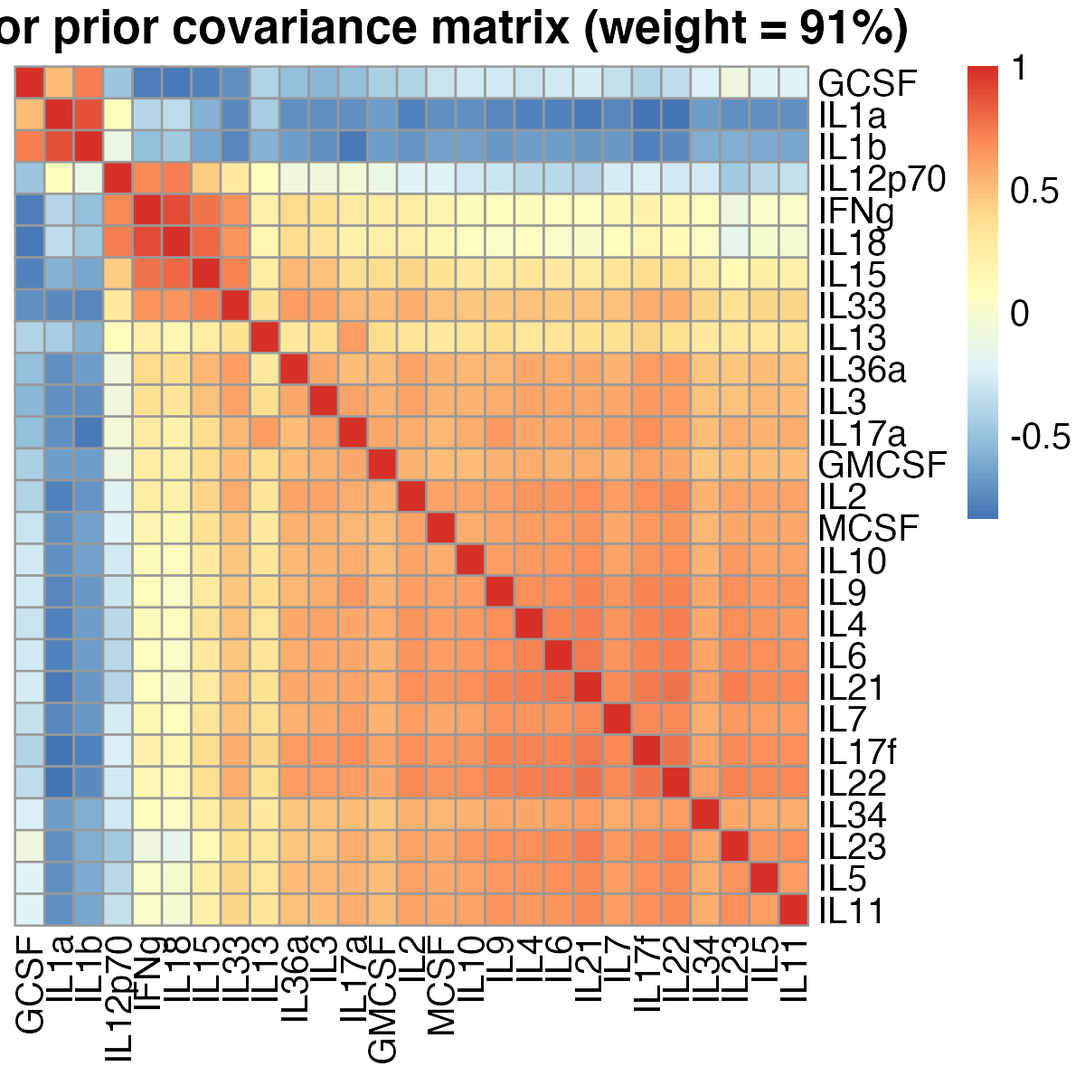
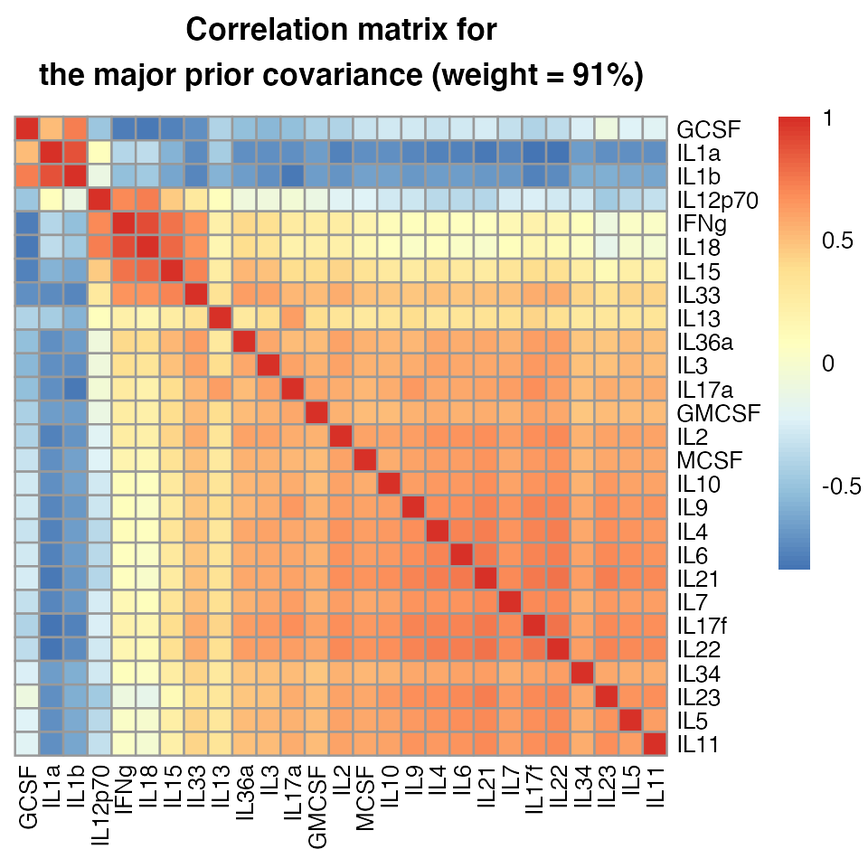
Rebuilt the pkgdown intro vignette page.

diff --git a/docs/articles/intro_poisson_mash.html b/docs/articles/intro_poisson_mash.html
@@ -33,7 +33,7 @@
       </button>
       <span class="navbar-brand">
         <a class="navbar-link" href="../index.html">poisson.mash.alpha</a>
-        <span class="version label label-default" data-toggle="tooltip" data-placement="bottom" title="">0.1-93</span>
+        <span class="version label label-default" data-toggle="tooltip" data-placement="bottom" title="">0.1-99</span>
       </span>
     </div>
 
@@ -68,9 +68,10 @@
     <div class="page-header toc-ignore">
       <h1 data-toc-skip>Multi-condition differential expression analysis
 in single-cell RNA-seq data using Poisson mash</h1>
-                        <h4 data-toc-skip class="author">Yusha Liu</h4>
+                        <h4 data-toc-skip class="author">Yusha Liu,
+Peter Carbonetto</h4>
             
-            <h4 data-toc-skip class="date">2023-11-13</h4>
+            <h4 data-toc-skip class="date">2023-11-22</h4>
       
       <small class="dont-index">Source: <a href="https://github.com/stephenslab/poisson.mash.alpha/blob/HEAD/vignettes/intro_poisson_mash.Rmd" class="external-link"><code>vignettes/intro_poisson_mash.Rmd</code></a></small>
       <div class="hidden name"><code>intro_poisson_mash.Rmd</code></div>
@@ -126,6 +127,8 @@ these data (1,936 cells, 2,158 genes, 12 conditions), but later we
 examine the results from running Poisson mash on the full data.</p>
 <div class="sourceCode" id="cb3"><pre class="downlit sourceCode r">
 <code class="sourceCode R"><span class="fu"><a href="https://rdrr.io/r/utils/data.html" class="external-link">data</a></span><span class="op">(</span><span class="va">neutrophils_subset</span><span class="op">)</span>
+<span class="va">Y</span> <span class="op">&lt;-</span> <span class="va">neutrophils_subset</span><span class="op">$</span><span class="va">Y</span>
+<span class="va">conditions</span> <span class="op">&lt;-</span> <span class="va">neutrophils_subset</span><span class="op">$</span><span class="va">conditions</span>
 <span class="fu"><a href="https://rdrr.io/r/base/dim.html" class="external-link">dim</a></span><span class="op">(</span><span class="va">Y</span><span class="op">)</span>
 <span class="va">conditions</span> <span class="op">&lt;-</span> <span class="fu"><a href="https://rdrr.io/r/base/factor.html" class="external-link">as.factor</a></span><span class="op">(</span><span class="va">conditions</span><span class="op">)</span>
 <span class="fu"><a href="https://rdrr.io/r/base/table.html" class="external-link">table</a></span><span class="op">(</span><span class="va">conditions</span><span class="op">)</span>
@@ -172,7 +175,38 @@ estimating the confounding variables using <a href="https://github.com/willtowne
 <div class="sourceCode" id="cb6"><pre class="downlit sourceCode r">
 <code class="sourceCode R"><span class="va">design</span> <span class="op">&lt;-</span> <span class="fu"><a href="https://rdrr.io/r/stats/model.matrix.html" class="external-link">model.matrix</a></span><span class="op">(</span><span class="op">~</span><span class="va">conditions</span><span class="op">)</span>
 <span class="va">fit.glmpca</span> <span class="op">&lt;-</span> <span class="fu"><a href="https://rdrr.io/pkg/glmpca/man/glmpca.html" class="external-link">glmpca</a></span><span class="op">(</span>Y <span class="op">=</span> <span class="fu"><a href="https://rdrr.io/r/base/matrix.html" class="external-link">as.matrix</a></span><span class="op">(</span><span class="va">Y</span><span class="op">)</span>,X <span class="op">=</span> <span class="va">design</span><span class="op">[</span>,<span class="op">-</span><span class="fl">1</span><span class="op">]</span>,L  <span class="op">=</span> <span class="fl">4</span>,fam <span class="op">=</span> <span class="st">"nb2"</span>,
-                     sz <span class="op">=</span> <span class="va">si</span>,ctl <span class="op">=</span> <span class="fu"><a href="https://rdrr.io/r/base/list.html" class="external-link">list</a></span><span class="op">(</span>minIter <span class="op">=</span> <span class="fl">1</span>,maxIter <span class="op">=</span> <span class="fl">20</span><span class="op">)</span><span class="op">)</span>
+                     sz <span class="op">=</span> <span class="va">si</span>,ctl <span class="op">=</span> <span class="fu"><a href="https://rdrr.io/r/base/list.html" class="external-link">list</a></span><span class="op">(</span>minIter <span class="op">=</span> <span class="fl">1</span>,maxIter <span class="op">=</span> <span class="fl">20</span>,
+                                        verbose <span class="op">=</span> <span class="cn">TRUE</span><span class="op">)</span><span class="op">)</span>
+<span class="co"># Trying AvaGrad with learning rate: 0.1</span>
+<span class="co"># Iteration: 1 | deviance=1.779e+06</span>
+<span class="co"># Iteration: 2 | deviance=5.659e+06</span>
+<span class="co"># Iteration: 3 | deviance=1.396e+07</span>
+<span class="co"># Iteration: 4 | deviance=1.369e+07</span>
+<span class="co"># Iteration: 5 | deviance=1.357e+07</span>
+<span class="co"># Iteration: 6 | deviance=1.35e+07</span>
+<span class="co"># Iteration: 7 | deviance=1.314e+07</span>
+<span class="co"># Iteration: 8 | deviance=4.41e+08</span>
+<span class="co"># Trying AvaGrad with learning rate: 0.02</span>
+<span class="co"># Iteration: 1 | deviance=1.779e+06</span>
+<span class="co"># Iteration: 2 | deviance=1.918e+06</span>
+<span class="co"># Iteration: 3 | deviance=1.886e+06</span>
+<span class="co"># Iteration: 4 | deviance=1.845e+06</span>
+<span class="co"># Iteration: 5 | deviance=1.811e+06</span>
+<span class="co"># Iteration: 6 | deviance=1.8e+06</span>
+<span class="co"># Iteration: 7 | deviance=1.787e+06</span>
+<span class="co"># Iteration: 8 | deviance=1.777e+06</span>
+<span class="co"># Iteration: 9 | deviance=1.766e+06</span>
+<span class="co"># Iteration: 10 | deviance=1.756e+06</span>
+<span class="co"># Iteration: 11 | deviance=1.747e+06</span>
+<span class="co"># Iteration: 12 | deviance=1.738e+06</span>
+<span class="co"># Iteration: 13 | deviance=1.729e+06</span>
+<span class="co"># Iteration: 14 | deviance=1.72e+06</span>
+<span class="co"># Iteration: 15 | deviance=1.71e+06</span>
+<span class="co"># Iteration: 16 | deviance=1.699e+06</span>
+<span class="co"># Iteration: 17 | deviance=1.687e+06</span>
+<span class="co"># Iteration: 18 | deviance=1.675e+06</span>
+<span class="co"># Iteration: 19 | deviance=1.661e+06</span>
+<span class="co"># Iteration: 20 | deviance=1.647e+06</span>
 <span class="co"># Warning in glmpca(Y = as.matrix(Y), X = design[, -1], L = 4, fam = "nb2", :</span>
 <span class="co"># Reached maximum number of iterations (20) without numerical convergence. Results</span>
 <span class="co"># may be unreliable.</span>
@@ -211,7 +245,7 @@ across conditions; <span class="math inline">\(\pi_{kl}\)</span> are
 corresponding mixture proportions that are estimated from the data
 during model fitting.</p>
 <p>To use Poisson mash, you need to specify the prior covariance
-matrices. This maay include “canonical” covariance matrices that
+matrices. This may include “canonical” covariance matrices that
 represent, for example, DE specific to a condition; and “data-driven”
 covariance matrices that are learned from the data and can capture
 arbitrary patterns of DE among conditions.</p>
@@ -225,22 +259,31 @@ process: (1) initialization, (2) refinement, (3) diagonal entry
 modification. The initialization phase is implemented by the function
 <code>pois_cov_init</code>. To estimate data-driven covariance matrices,
 we only use the subset of genes containing “strong signals”; that is,
-the genes that are considered DE by a multinomial goodness-of-fit
-test.</p>
+the genes that are considered DE by a multinomial goodness-of-fit test.
+The selection of genes with strong signals is implicitly performed by
+the call to <code>pois_cov_init</code>, e.g., setting
+<code>cutoff = 3</code> selects the genes for which the magnitude of
+<span class="math inline">\(Z\)</span>-score (inverted from the <span class="math inline">\(p\)</span>-value of the goodness-of-fit test)
+exceeds 3.</p>
 <div class="sourceCode" id="cb9"><pre class="downlit sourceCode r">
-<code class="sourceCode R"><span class="va">res.pca</span> <span class="op">&lt;-</span> <span class="fu"><a href="../reference/pois_cov_init.html">pois_cov_init</a></span><span class="op">(</span><span class="va">dat</span><span class="op">)</span></code></pre></div>
+<code class="sourceCode R"><span class="va">res.pca</span> <span class="op">&lt;-</span> <span class="fu"><a href="../reference/pois_cov_init.html">pois_cov_init</a></span><span class="op">(</span><span class="va">dat</span>, cutoff <span class="op">=</span> <span class="fl">3</span><span class="op">)</span></code></pre></div>
 <p>The refinement phase refines the initial estimates of data-driven
 covariance matrices using the Extreme Eeconvolution (ED) algorithm, and
 is implemented by the function <code>pois_cov_ed</code>. As in the
 initialization phase, only data from the genes with strong signals are
-used. For the purposes of this vignette, we just ran
-<code>pois_cov_ed</code> for 10 iterations, but we recommend using the
-default value <code>maxiter = 500</code> when analyzing your own
-data.</p>
+used. It should be noted that only data-driven covariance matrices need
+to be refined, so they need to be distinguished from the canonical
+covariance matrices in the <code>pois_cov_ed</code> call using the
+argument <code>ulist.dd</code>. For the purposes of this vignette, we
+just ran <code>pois_cov_ed</code> for 10 iterations, but we recommend
+using the default value <code>maxiter = 500</code> when analyzing your
+own data.</p>
 <div class="sourceCode" id="cb10"><pre class="downlit sourceCode r">
 <code class="sourceCode R"><span class="va">R</span> <span class="op">&lt;-</span> <span class="fu"><a href="https://rdrr.io/r/base/nrow.html" class="external-link">ncol</a></span><span class="op">(</span><span class="va">dat</span><span class="op">$</span><span class="va">X</span><span class="op">)</span>
+<span class="co"># Merge data-driven and canonical rank-1 prior covariance matrices</span>
 <span class="va">ulist</span> <span class="op">&lt;-</span> <span class="fu"><a href="https://rdrr.io/r/base/c.html" class="external-link">c</a></span><span class="op">(</span><span class="va">res.pca</span><span class="op">$</span><span class="va">ulist</span>,<span class="va">ulist.c</span><span class="op">)</span>
-<span class="co"># Specify whether each prior covariance matrix is data-driven or not.</span>
+<span class="co"># Specify whether a rank-1 prior covariance matrix is data-driven or not</span>
+<span class="co"># (note all full-rank covariance matrices are data-driven so do not need this specification)</span>
 <span class="va">ulist.dd</span> <span class="op">&lt;-</span> <span class="fu"><a href="https://rdrr.io/r/base/c.html" class="external-link">c</a></span><span class="op">(</span><span class="fu"><a href="https://rdrr.io/r/base/rep.html" class="external-link">rep</a></span><span class="op">(</span><span class="cn">TRUE</span>,<span class="fu"><a href="https://rdrr.io/r/base/length.html" class="external-link">length</a></span><span class="op">(</span><span class="va">res.pca</span><span class="op">$</span><span class="va">ulist</span><span class="op">)</span> <span class="op">-</span> <span class="fl">1</span><span class="op">)</span>,<span class="fu"><a href="https://rdrr.io/r/base/rep.html" class="external-link">rep</a></span><span class="op">(</span><span class="cn">FALSE</span>,<span class="va">R</span> <span class="op">+</span> <span class="fl">1</span><span class="op">)</span><span class="op">)</span> 
 <span class="co"># Run ED on the genes with strong signals.</span>
 <span class="va">fit.ed</span> <span class="op">&lt;-</span> <span class="fu"><a href="../reference/pois_cov_ed.html">pois_cov_ed</a></span><span class="op">(</span><span class="va">dat</span>,subset <span class="op">=</span> <span class="va">res.pca</span><span class="op">$</span><span class="va">subset</span>,Ulist <span class="op">=</span> <span class="va">res.pca</span><span class="op">$</span><span class="va">Ulist</span>,
@@ -269,13 +312,17 @@ data.</p>
 <span class="co"># [1] "iter         ELBO"</span>
 <span class="co"># [1] "10:    -23470.835015"</span>
 <span class="co"># Finish running extreme deconvolution to estimate prior covariance matrices.</span></code></pre></div>
-<p>The modification phase adds a small constant (e.g., <span class="math inline">\(0.01\)</span>) to the diagonal entries of the
+<p>The modification phase adds a small constant <span class="math inline">\(\epsilon^2\)</span> (e.g., <span class="math inline">\(0.01\)</span>) to the diagonal entries of the
 estimated data-driven covariance matrices. This step is done to
 alleviate issues of inflated <a href="https://doi.org/10.1093/biostatistics/kxw041" class="external-link">local false sign
 rates (lfsr)</a>, which are analogous to but more conservative than
-local false discovery rates.</p>
+local false discovery rates. Similarly, only data-driven covariance
+matrices require such modification, and this information is encoded in
+the vector <code>epsilon2.G</code> and will be passed to the function
+call in the next step.</p>
 <div class="sourceCode" id="cb11"><pre class="downlit sourceCode r">
-<code class="sourceCode R"><span class="co"># add epsilon*I to each full-rank data-driven prior covariance matrix</span>
+<code class="sourceCode R"><span class="co"># add epsilon2*I to each full-rank data-driven prior covariance matrix</span>
+<span class="co"># all the full-rank covariance matrices are data-driven and need this modification</span>
 <span class="va">Ulist</span> <span class="op">&lt;-</span> <span class="va">fit.ed</span><span class="op">$</span><span class="va">Ulist</span>
 <span class="va">H</span> <span class="op">&lt;-</span> <span class="fu"><a href="https://rdrr.io/r/base/length.html" class="external-link">length</a></span><span class="op">(</span><span class="va">Ulist</span><span class="op">)</span>
 <span class="kw">for</span><span class="op">(</span><span class="va">h</span> <span class="kw">in</span> <span class="fl">1</span><span class="op">:</span><span class="va">H</span><span class="op">)</span><span class="op">{</span>
@@ -284,7 +331,8 @@ local false discovery rates.</p>
   <span class="va">Ulist</span><span class="op">[[</span><span class="va">h</span><span class="op">]</span><span class="op">]</span> <span class="op">&lt;-</span> <span class="va">Uh</span> <span class="op">+</span> <span class="fl">1e-2</span><span class="op">*</span><span class="fu"><a href="https://rdrr.io/r/base/diag.html" class="external-link">diag</a></span><span class="op">(</span><span class="va">R</span><span class="op">)</span>
 <span class="op">}</span>
 
-<span class="co"># add epsilon*I to each rank-1 data-driven prior covariance matrix</span>
+<span class="co"># add epsilon2*I to each rank-1 data-driven prior covariance matrix</span>
+<span class="co"># only a subset of the rank-1 covariance matrices are data-driven and need this modification</span>
 <span class="va">G</span> <span class="op">&lt;-</span> <span class="fu"><a href="https://rdrr.io/r/base/length.html" class="external-link">length</a></span><span class="op">(</span><span class="va">fit.ed</span><span class="op">$</span><span class="va">ulist</span><span class="op">)</span>
 <span class="va">epsilon2.G</span> <span class="op">&lt;-</span> <span class="fu"><a href="https://rdrr.io/r/base/rep.html" class="external-link">rep</a></span><span class="op">(</span><span class="fl">1e-8</span>, <span class="va">G</span><span class="op">)</span>
 <span class="fu"><a href="https://rdrr.io/r/base/names.html" class="external-link">names</a></span><span class="op">(</span><span class="va">epsilon2.G</span><span class="op">)</span> <span class="op">&lt;-</span> <span class="fu"><a href="https://rdrr.io/r/base/names.html" class="external-link">names</a></span><span class="op">(</span><span class="va">fit.ed</span><span class="op">$</span><span class="va">ulist</span><span class="op">)</span>
@@ -376,16 +424,17 @@ effect sizes (log-fold changes) and measures of significance (lfsr), for
 each gene in the dataset. These DE effect posterior summaries are stored
 in the <code>result</code> component.</p>
 <div class="sourceCode" id="cb14"><pre class="downlit sourceCode r">
-<code class="sourceCode R"><span class="co"># Rransform DE effect estimates to the scale of log2 fold change.</span>
-<span class="va">res</span><span class="op">$</span><span class="va">result</span><span class="op">$</span><span class="va">PosteriorMean</span><span class="op">[</span><span class="fl">1</span><span class="op">:</span><span class="fl">5</span>,<span class="fl">1</span><span class="op">:</span><span class="fl">5</span><span class="op">]</span><span class="op">/</span><span class="fu"><a href="https://rdrr.io/r/base/Log.html" class="external-link">log</a></span><span class="op">(</span><span class="fl">2</span><span class="op">)</span>
-<span class="co"># gene-specific, condition-specific lfsr</span>
-<span class="va">res</span><span class="op">$</span><span class="va">result</span><span class="op">$</span><span class="va">lfsr</span><span class="op">[</span><span class="fl">1</span><span class="op">:</span><span class="fl">5</span>,<span class="fl">1</span><span class="op">:</span><span class="fl">5</span><span class="op">]</span>
+<code class="sourceCode R"><span class="co"># Transform DE effect estimates to the scale of log2 fold change from natural log scale.</span>
+<span class="va">neutrophils_pois_mash_ruv_fit</span><span class="op">$</span><span class="va">result</span><span class="op">$</span><span class="va">PosteriorMean</span><span class="op">[</span><span class="fl">1</span><span class="op">:</span><span class="fl">5</span>,<span class="fl">1</span><span class="op">:</span><span class="fl">5</span><span class="op">]</span><span class="op">/</span><span class="fu"><a href="https://rdrr.io/r/base/Log.html" class="external-link">log</a></span><span class="op">(</span><span class="fl">2</span><span class="op">)</span>
 <span class="co">#          Ctrl_2-mean   CCL20-mean    CXCL1-mean    CCL22-mean   CXCL5-mean</span>
 <span class="co"># Mrpl15  -0.034042592 -0.007468183  0.0104375255 -0.0212980437 -0.017696220</span>
 <span class="co"># Lypla1  -0.009057545 -0.002816239 -0.0312773830 -0.0100671020 -0.011641034</span>
 <span class="co"># Tcea1    0.006406279  0.003163708  0.0117792404  0.0112956807  0.007417445</span>
 <span class="co"># Atp6v1h  0.005641873  0.004324441 -0.0009984417  0.0001755186  0.002388297</span>
-<span class="co"># Rb1cc1   0.005531303  0.010590542 -0.0071790326  0.0060939489  0.003342450</span>
+<span class="co"># Rb1cc1   0.005531303  0.010590542 -0.0071790326  0.0060939489  0.003342450</span></code></pre></div>
+<div class="sourceCode" id="cb15"><pre class="downlit sourceCode r">
+<code class="sourceCode R"><span class="co"># Obtain gene-specific, condition-specific lfsr for detecting gene-condition DE effects.</span>
+<span class="va">neutrophils_pois_mash_ruv_fit</span><span class="op">$</span><span class="va">result</span><span class="op">$</span><span class="va">lfsr</span><span class="op">[</span><span class="fl">1</span><span class="op">:</span><span class="fl">5</span>,<span class="fl">1</span><span class="op">:</span><span class="fl">5</span><span class="op">]</span>
 <span class="co">#         Ctrl_2-mean CCL20-mean CXCL1-mean CCL22-mean CXCL5-mean</span>
 <span class="co"># Mrpl15    0.2527081  0.4012463  0.4501408  0.3236194  0.3458751</span>
 <span class="co"># Lypla1    0.4041496  0.4586630  0.2824110  0.3962331  0.3803850</span>
@@ -396,8 +445,8 @@ in the <code>result</code> component.</p>
 <em>lfsr</em> less than <span class="math inline">\(\alpha\)</span> in
 at least one condition, where <span class="math inline">\(\alpha\)</span> is a threshold specified by the
 user (e.g., 0.05).</p>
-<div class="sourceCode" id="cb15"><pre class="downlit sourceCode r">
-<code class="sourceCode R"><span class="va">lfsr</span> <span class="op">&lt;-</span> <span class="va">res</span><span class="op">$</span><span class="va">result</span><span class="op">$</span><span class="va">lfsr</span>
+<div class="sourceCode" id="cb16"><pre class="downlit sourceCode r">
+<code class="sourceCode R"><span class="va">lfsr</span> <span class="op">&lt;-</span> <span class="va">neutrophils_pois_mash_ruv_fit</span><span class="op">$</span><span class="va">result</span><span class="op">$</span><span class="va">lfsr</span>
 <span class="co"># Get the indices of identified DE genes.</span>
 <span class="va">min.lfsr</span> <span class="op">&lt;-</span> <span class="fu"><a href="https://rdrr.io/r/base/apply.html" class="external-link">apply</a></span><span class="op">(</span><span class="va">lfsr</span>,<span class="fl">1</span>,<span class="va">min</span><span class="op">)</span>
 <span class="co"># Order genes by significance based on mininum lfsr across conditions.</span>
@@ -409,45 +458,56 @@ user (e.g., 0.05).</p>
 <span class="fu"><a href="https://rdrr.io/r/base/length.html" class="external-link">length</a></span><span class="op">(</span><span class="va">de.genes</span><span class="op">)</span>
 <span class="co"># [1] 2636</span></code></pre></div>
 <p>The model parameter estimates are stored in the
-<code>pois.mash.fit</code> component. In particular, let us look at the
-estimates of the mixture proportions for different prior covariance
-matrices:</p>
-<div class="sourceCode" id="cb16"><pre class="downlit sourceCode r">
-<code class="sourceCode R"><span class="fu"><a href="https://rdrr.io/r/base/Round.html" class="external-link">round</a></span><span class="op">(</span><span class="fu"><a href="https://rdrr.io/pkg/Matrix/man/colSums.html" class="external-link">rowSums</a></span><span class="op">(</span><span class="va">res</span><span class="op">$</span><span class="va">pois.mash.fit</span><span class="op">$</span><span class="va">pi</span><span class="op">)</span>,<span class="fl">3</span><span class="op">)</span>
-<span class="co">#    tPCA Emp_cov    PC_1    PC_2    PC_3    PC_4    PC_5     u_0     e_1     e_2 </span>
-<span class="co">#   0.912   0.002   0.002   0.010   0.034   0.012   0.004   0.001   0.000   0.001 </span>
-<span class="co">#     e_3     e_4     e_5     e_6     e_7     e_8     e_9    e_10    e_11    e_12 </span>
-<span class="co">#   0.000   0.000   0.000   0.000   0.001   0.000   0.000   0.001   0.000   0.000 </span>
-<span class="co">#    e_13    e_14    e_15    e_16    e_17    e_18    e_19    e_20    e_21    e_22 </span>
-<span class="co">#   0.000   0.001   0.000   0.000   0.000   0.000   0.000   0.000   0.000   0.000 </span>
-<span class="co">#    e_23    e_24    e_25    e_26    e_27    e_28    e_29    e_30    e_31    e_32 </span>
-<span class="co">#   0.000   0.000   0.000   0.001   0.000   0.000   0.000   0.000   0.000   0.000 </span>
-<span class="co">#    e_33    e_34    e_35    e_36    e_37    e_38    e_39    e_40    e_41    e_42 </span>
-<span class="co">#   0.000   0.004   0.001   0.000   0.000   0.000   0.000   0.000   0.002   0.001 </span>
-<span class="co">#    e_43    e_44    e_45 </span>
-<span class="co">#   0.000   0.000   0.000</span></code></pre></div>
-<p>The data-driven covariance matrix “tPCA” has by far the largest
-proportion estimate (91%). We plot the correlation heatmap for this
-covariance matrix, which captures the most frequent pattern of sharing
-of DE effects across cytokine treatments in the neutrophils data. For
-space reason, here we present the correlation heatmap only for selected
-conditions.</p>
+<code>pois.mash.fit</code> component. In particular, let us look at
+<span class="math inline">\(\pi_{kl}\)</span>, the estimates of the
+mixture proportions for combinations of different scaling coefficients
+<span class="math inline">\(w_l\)</span> and prior covariance matrices
+<span class="math inline">\(U_k\)</span>:</p>
 <div class="sourceCode" id="cb17"><pre class="downlit sourceCode r">
+<code class="sourceCode R"><span class="fu"><a href="https://rdrr.io/pkg/pheatmap/man/pheatmap.html" class="external-link">pheatmap</a></span><span class="op">(</span><span class="va">neutrophils_pois_mash_ruv_fit</span><span class="op">$</span><span class="va">pois.mash.fit</span><span class="op">$</span><span class="va">pi</span>, cluster_rows<span class="op">=</span><span class="cn">FALSE</span>, cluster_cols<span class="op">=</span><span class="cn">FALSE</span>, fontsize_row<span class="op">=</span><span class="fl">6</span>, fontsize_col<span class="op">=</span><span class="fl">6</span>, main<span class="op">=</span><span class="st">"Proportion estimates of prior covariance matrices"</span><span class="op">)</span></code></pre></div>
+<p><img src="intro_poisson_mash_files/figure-html/mixture-proportion-1.png" width="875" style="display: block; margin: auto;"></p>
+<p>The data-driven covariance matrix “tPCA” has by far the largest
+proportion estimate (91%; summed over all scaling coefficients). We plot
+the correlation heatmap for this covariance matrix, which captures the
+most frequent pattern of sharing of DE effects across cytokine
+treatments in the neutrophils data. For space reason, here we present
+the correlation heatmap only for selected conditions.</p>
+<div class="sourceCode" id="cb18"><pre class="downlit sourceCode r">
 <code class="sourceCode R"><span class="fu"><a href="https://rdrr.io/r/utils/data.html" class="external-link">data</a></span><span class="op">(</span><span class="va">condition_colors</span><span class="op">)</span>
-<span class="va">U</span> <span class="op">&lt;-</span> <span class="va">res</span><span class="op">$</span><span class="va">pois.mash.fit</span><span class="op">$</span><span class="va">Ulist</span><span class="op">[[</span><span class="fl">1</span><span class="op">]</span><span class="op">]</span>
-<span class="fu"><a href="https://rdrr.io/r/base/colnames.html" class="external-link">colnames</a></span><span class="op">(</span><span class="va">U</span><span class="op">)</span> <span class="op">&lt;-</span> <span class="fu"><a href="https://rdrr.io/r/base/colnames.html" class="external-link">colnames</a></span><span class="op">(</span><span class="va">res</span><span class="op">$</span><span class="va">pois.mash.fit</span><span class="op">$</span><span class="va">mu</span><span class="op">)</span>
-<span class="fu"><a href="https://rdrr.io/r/base/colnames.html" class="external-link">rownames</a></span><span class="op">(</span><span class="va">U</span><span class="op">)</span> <span class="op">&lt;-</span> <span class="fu"><a href="https://rdrr.io/r/base/colnames.html" class="external-link">colnames</a></span><span class="op">(</span><span class="va">res</span><span class="op">$</span><span class="va">pois.mash.fit</span><span class="op">$</span><span class="va">mu</span><span class="op">)</span>
-<span class="va">idx.trts</span> <span class="op">&lt;-</span> <span class="fu"><a href="https://rdrr.io/r/base/match.html" class="external-link">match</a></span><span class="op">(</span><span class="fu"><a href="https://rdrr.io/r/base/names.html" class="external-link">names</a></span><span class="op">(</span><span class="va">cols.trt</span><span class="op">)</span>,<span class="fu"><a href="https://rdrr.io/r/base/colnames.html" class="external-link">colnames</a></span><span class="op">(</span><span class="va">res</span><span class="op">$</span><span class="va">pois.mash.fit</span><span class="op">$</span><span class="va">mu</span><span class="op">)</span><span class="op">)</span>
+<span class="va">U</span> <span class="op">&lt;-</span> <span class="va">neutrophils_pois_mash_ruv_fit</span><span class="op">$</span><span class="va">pois.mash.fit</span><span class="op">$</span><span class="va">Ulist</span><span class="op">[[</span><span class="fl">1</span><span class="op">]</span><span class="op">]</span>
+<span class="fu"><a href="https://rdrr.io/r/base/colnames.html" class="external-link">colnames</a></span><span class="op">(</span><span class="va">U</span><span class="op">)</span> <span class="op">&lt;-</span> <span class="fu"><a href="https://rdrr.io/r/base/colnames.html" class="external-link">colnames</a></span><span class="op">(</span><span class="va">neutrophils_pois_mash_ruv_fit</span><span class="op">$</span><span class="va">pois.mash.fit</span><span class="op">$</span><span class="va">mu</span><span class="op">)</span>
+<span class="fu"><a href="https://rdrr.io/r/base/colnames.html" class="external-link">rownames</a></span><span class="op">(</span><span class="va">U</span><span class="op">)</span> <span class="op">&lt;-</span> <span class="fu"><a href="https://rdrr.io/r/base/colnames.html" class="external-link">colnames</a></span><span class="op">(</span><span class="va">neutrophils_pois_mash_ruv_fit</span><span class="op">$</span><span class="va">pois.mash.fit</span><span class="op">$</span><span class="va">mu</span><span class="op">)</span>
+<span class="va">idx.trts</span> <span class="op">&lt;-</span> <span class="fu"><a href="https://rdrr.io/r/base/match.html" class="external-link">match</a></span><span class="op">(</span><span class="fu"><a href="https://rdrr.io/r/base/names.html" class="external-link">names</a></span><span class="op">(</span><span class="va">condition_colors</span><span class="op">)</span>,<span class="fu"><a href="https://rdrr.io/r/base/colnames.html" class="external-link">colnames</a></span><span class="op">(</span><span class="va">neutrophils_pois_mash_ruv_fit</span><span class="op">$</span><span class="va">pois.mash.fit</span><span class="op">$</span><span class="va">mu</span><span class="op">)</span><span class="op">)</span>
 <span class="va">corr</span> <span class="op">&lt;-</span> <span class="fu"><a href="https://rdrr.io/r/stats/cor.html" class="external-link">cov2cor</a></span><span class="op">(</span><span class="va">U</span><span class="op">[</span><span class="va">idx.trts</span>,<span class="va">idx.trts</span><span class="op">]</span><span class="op">)</span>
 <span class="fu"><a href="https://rdrr.io/pkg/pheatmap/man/pheatmap.html" class="external-link">pheatmap</a></span><span class="op">(</span><span class="va">corr</span>,cluster_rows <span class="op">=</span> <span class="cn">FALSE</span>,cluster_cols <span class="op">=</span> <span class="cn">FALSE</span>,angle_col <span class="op">=</span> <span class="fl">90</span>,
-         fontsize <span class="op">=</span> <span class="fl">12</span>,main <span class="op">=</span> <span class="st">"Major prior covariance matrix (weight = 91%)"</span><span class="op">)</span></code></pre></div>
-<p><img src="intro_poisson_mash_files/figure-html/plot-sharing-pattern-1.png" width="600" style="display: block; margin: auto;"></p>
+         fontsize <span class="op">=</span> <span class="fl">8</span>,main <span class="op">=</span> <span class="st">"Correlation matrix for\nthe major prior covariance (weight = 91%)"</span><span class="op">)</span></code></pre></div>
+<p><img src="intro_poisson_mash_files/figure-html/plot-sharing-pattern-1.png" width="480" style="display: block; margin: auto;"></p>
+<p>This correlation heatmap suggests strong sharing of DE effects among
+two groups of cytokines (1) IL-1<span class="math inline">\(\alpha\)</span>, IL-1<span class="math inline">\(\beta\)</span>, G-CSF and (2) IL-12 p70, IFN-<span class="math inline">\(\gamma\)</span>, IL-18, IL-15, IL-33. We then plot
+the log-fold changes for a few DE genes that either show effect sharing
+among (1) or (2), where the reference condition is the mean across all
+conditions.</p>
+<div class="sourceCode" id="cb19"><pre class="downlit sourceCode r">
+<code class="sourceCode R"><span class="co">### define the color map for LFC</span>
+<span class="va">cols</span> <span class="op">&lt;-</span> <span class="fu"><a href="https://rdrr.io/r/grDevices/colorRamp.html" class="external-link">colorRampPalette</a></span><span class="op">(</span><span class="fu"><a href="https://rdrr.io/r/base/c.html" class="external-link">c</a></span><span class="op">(</span><span class="st">"blue"</span>,<span class="st">"white"</span>,<span class="st">"red"</span><span class="op">)</span><span class="op">)</span><span class="op">(</span><span class="fl">99</span><span class="op">)</span>
+<span class="va">brks</span> <span class="op">&lt;-</span> <span class="fu"><a href="https://rdrr.io/r/base/seq.html" class="external-link">seq</a></span><span class="op">(</span><span class="op">-</span><span class="fu"><a href="https://rdrr.io/r/base/Log.html" class="external-link">log</a></span><span class="op">(</span><span class="fl">10</span><span class="op">)</span>, <span class="fu"><a href="https://rdrr.io/r/base/Log.html" class="external-link">log</a></span><span class="op">(</span><span class="fl">10</span><span class="op">)</span>, length<span class="op">=</span><span class="fl">100</span><span class="op">)</span><span class="op">/</span><span class="fu"><a href="https://rdrr.io/r/base/Log.html" class="external-link">log</a></span><span class="op">(</span><span class="fl">2</span><span class="op">)</span>
+
+<span class="co">### plot a few DE genes that show effect sharing among the first group of cytokines (taken from Figure 7 in our paper)</span>
+<span class="va">genes1</span> <span class="op">&lt;-</span> <span class="fu"><a href="https://rdrr.io/r/base/c.html" class="external-link">c</a></span><span class="op">(</span><span class="st">"Prok2"</span>, <span class="st">"Nos2"</span>, <span class="st">"Teddm3"</span>, <span class="st">"Lipg"</span>, <span class="st">"Saa3"</span>, <span class="st">"Wfdc17"</span>, <span class="st">"Cd38"</span>, <span class="st">"Ggt1"</span>, <span class="st">"Dpep2"</span>, <span class="st">"Mmp19"</span><span class="op">)</span>
+<span class="fu"><a href="https://rdrr.io/pkg/pheatmap/man/pheatmap.html" class="external-link">pheatmap</a></span><span class="op">(</span><span class="fu"><a href="https://rdrr.io/r/base/t.html" class="external-link">t</a></span><span class="op">(</span><span class="va">neutrophils_pois_mash_ruv_fit</span><span class="op">$</span><span class="va">result</span><span class="op">$</span><span class="va">PosteriorMean</span><span class="op">[</span><span class="va">genes1</span>, <span class="va">idx.trts</span><span class="op">]</span><span class="op">)</span><span class="op">/</span><span class="fu"><a href="https://rdrr.io/r/base/Log.html" class="external-link">log</a></span><span class="op">(</span><span class="fl">2</span><span class="op">)</span>, cluster_rows <span class="op">=</span> <span class="cn">FALSE</span>, cluster_cols <span class="op">=</span> <span class="cn">FALSE</span>, color <span class="op">=</span> <span class="va">cols</span>, breaks <span class="op">=</span> <span class="va">brks</span>, angle_col <span class="op">=</span> <span class="fl">90</span>, main <span class="op">=</span> <span class="st">""</span><span class="op">)</span></code></pre></div>
+<p><img src="intro_poisson_mash_files/figure-html/plot-lfc-1.png" width="480" style="display: block; margin: auto;"></p>
+<div class="sourceCode" id="cb20"><pre class="downlit sourceCode r">
+<code class="sourceCode R">
+<span class="co">### plot a few DE genes that show effect sharing among the second group of cytokines (taken from Figure 7 in our paper)</span>
+<span class="va">genes2</span> <span class="op">&lt;-</span> <span class="fu"><a href="https://rdrr.io/r/base/c.html" class="external-link">c</a></span><span class="op">(</span><span class="st">"Gbp2"</span>, <span class="st">"Gbp3"</span>, <span class="st">"Gbp4"</span>, <span class="st">"Gbp5"</span>, <span class="st">"Ifi47"</span>, <span class="st">"Ifit2"</span>, <span class="st">"Ifit3"</span>, <span class="st">"Socs1"</span>, <span class="st">"Tgtp2"</span>, <span class="st">"Zbp1"</span><span class="op">)</span>
+<span class="fu"><a href="https://rdrr.io/pkg/pheatmap/man/pheatmap.html" class="external-link">pheatmap</a></span><span class="op">(</span><span class="fu"><a href="https://rdrr.io/r/base/t.html" class="external-link">t</a></span><span class="op">(</span><span class="va">neutrophils_pois_mash_ruv_fit</span><span class="op">$</span><span class="va">result</span><span class="op">$</span><span class="va">PosteriorMean</span><span class="op">[</span><span class="va">genes2</span>, <span class="va">idx.trts</span><span class="op">]</span><span class="op">)</span><span class="op">/</span><span class="fu"><a href="https://rdrr.io/r/base/Log.html" class="external-link">log</a></span><span class="op">(</span><span class="fl">2</span><span class="op">)</span>, cluster_rows <span class="op">=</span> <span class="cn">FALSE</span>, cluster_cols <span class="op">=</span> <span class="cn">FALSE</span>, color <span class="op">=</span> <span class="va">cols</span>, breaks <span class="op">=</span> <span class="va">brks</span>, angle_col <span class="op">=</span> <span class="fl">90</span>, main <span class="op">=</span> <span class="st">""</span><span class="op">)</span></code></pre></div>
+<p><img src="intro_poisson_mash_files/figure-html/plot-lfc-2.png" width="480" style="display: block; margin: auto;"></p>
 <div class="section level3">
 <h3 id="session-info">Session info<a class="anchor" aria-label="anchor" href="#session-info"></a>
 </h3>
 <p>This is the version of R and the packages that were used to generate
 these results.</p>
-<div class="sourceCode" id="cb18"><pre class="downlit sourceCode r">
+<div class="sourceCode" id="cb21"><pre class="downlit sourceCode r">
 <code class="sourceCode R"><span class="fu"><a href="https://rdrr.io/r/utils/sessionInfo.html" class="external-link">sessionInfo</a></span><span class="op">(</span><span class="op">)</span>
 <span class="co"># R version 3.6.2 (2019-12-12)</span>
 <span class="co"># Platform: x86_64-apple-darwin15.6.0 (64-bit)</span>
@@ -465,7 +525,7 @@ these results.</p>
 <span class="co"># [8] methods   base     </span>
 <span class="co"># </span>
 <span class="co"># other attached packages:</span>
-<span class="co">#  [1] poisson.mash.alpha_0.1-92   pheatmap_1.0.12            </span>
+<span class="co">#  [1] poisson.mash.alpha_0.1-98   pheatmap_1.0.12            </span>
 <span class="co">#  [3] glmpca_0.2.0                scran_1.14.6               </span>
 <span class="co">#  [5] SingleCellExperiment_1.8.0  SummarizedExperiment_1.16.1</span>
 <span class="co">#  [7] DelayedArray_0.12.3         BiocParallel_1.18.1        </span>

diff --git a/docs/articles/index.html b/docs/articles/index.html
@@ -17,7 +17,7 @@
       </button>
       <span class="navbar-brand">
         <a class="navbar-link" href="../index.html">poisson.mash.alpha</a>
-        <span class="version label label-default" data-toggle="tooltip" data-placement="bottom" title="">0.1-94</span>
+        <span class="version label label-default" data-toggle="tooltip" data-placement="bottom" title="">0.1-99</span>
       </span>
     </div>
 
